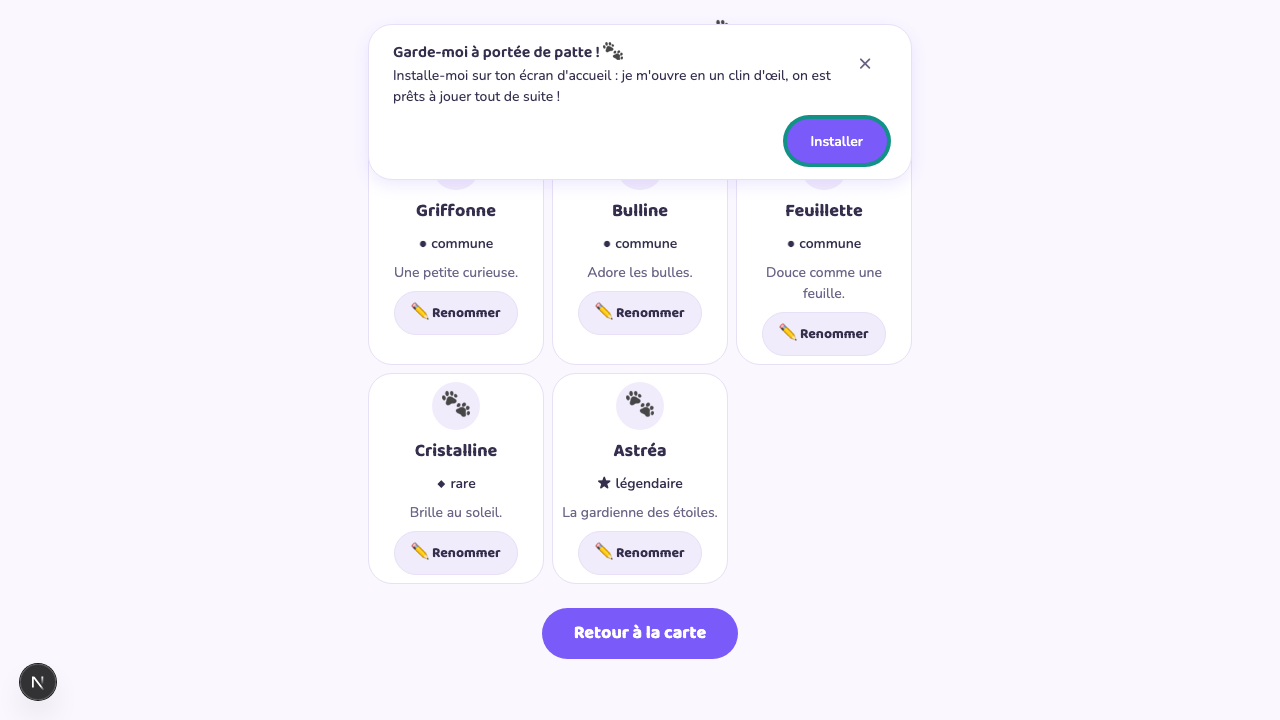
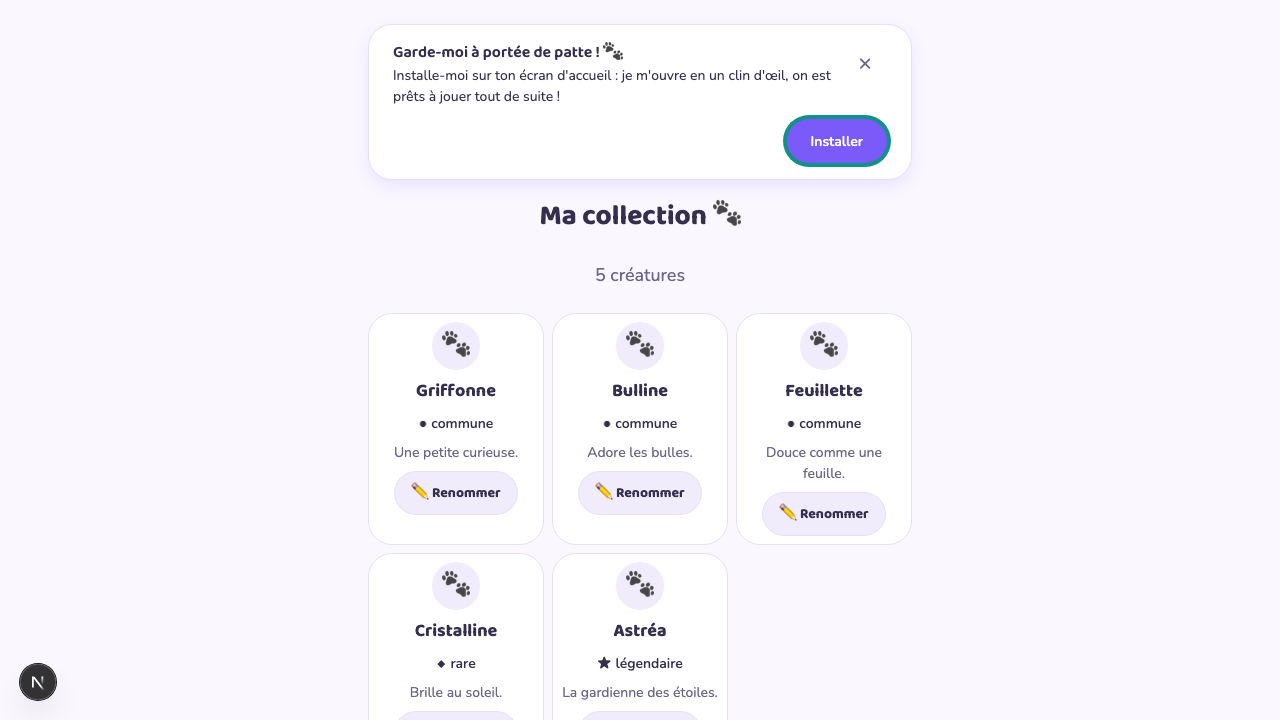
fix(8.5): invite EN FLUX qui réserve l'espace — ne recouvre plus le <h1> hôte (#258)
Re-review PO round 2 : le gating a corrigé l'occlusion sur l'onboarding mais
l'invite `position:fixed; top` (zIndex 9999) recouvrait le PROPRE <h1> des
surfaces autorisées (« Ma collection 🐾 » réduit à un fragment d'emoji, titre
carte idem) — occlusion relocalisée, pas résolue (piège #170/#190 : seuls les
frères FIXES avaient été vérifiés, jamais le contenu EN FLUX).

Fix (option a PO) : l'invite est montée PREMIER enfant de <body>, EN FLUX
(aucune position). Sa hauteur POUSSE le contenu de page vers le bas → réserve un
espace réel ⇒ non-occlusion du <h1> hôte PAR CONSTRUCTION (il vit sous le
bandeau). Scrolle avec la page (pas sticky) → ne recouvre RIEN, à aucune
position. Pas de coexistence à gérer avec OfflineBanner/ActionBar (fixed en BAS).

Garde E2E `expectInviteAndHostTitleCoexist` (elementFromPoint sur le <h1> hôte +
inviteBottom<=titleTop) sur /collection ET /carte, desktop ET 375px. Mutation-
prouvée : repasser en `position:fixed` → titleNotOccluded=false, 2 tests rouges.

Captures /collection + /carte (desktop + 375px) régénérées, ouvertes et
regardées : titre hôte ET invite tous deux entièrement visibles, non-recouverts.

diff --git a/e2e/pwa.spec.ts b/e2e/pwa.spec.ts
@@ -112,6 +112,56 @@ async function readInstallPromptGeometry(page: Page) {
   }, strings.pwa.install.regionLabel);
 }
 
+/**
+ * Non-occlusion du **titre `<h1>` de la surface HÔTE** par l'invite (defect PO round 2,
+ * #170/#190). L'invite est en flux normal AVANT `<main>` → elle doit RÉSERVER l'espace et
+ * pousser le `<h1>` sous elle, jamais le recouvrir. On lit le PREMIER `<h1>` de `<main>`
+ * (texte quelconque : « Ma collection 🐾 », titre thématisé carte…) et on vérifie :
+ *  - le `<h1>` est visible (rect non vide) ET `elementFromPoint` en son centre le retourne
+ *    (ou un descendant) → aucun frère opaque par-dessus ;
+ *  - le bas de l'invite est AU-DESSUS (≤) du haut du `<h1>` → aucun chevauchement vertical.
+ * ROUGIT si l'invite repasse en overlay (`position:fixed`) et recouvre le titre.
+ */
+async function readHostTitleOcclusion(page: Page, regionLabel: string) {
+  return page.evaluate((label) => {
+    const region = [...document.querySelectorAll('[role="region"]')].find(
+      (el) => el.getAttribute("aria-label") === label,
+    );
+    const h1 = document.querySelector("main h1");
+    if (!region || !h1) return null;
+    const inviteRect = region.getBoundingClientRect();
+    const titleRect = h1.getBoundingClientRect();
+    const cx = (titleRect.left + titleRect.right) / 2;
+    const cy = (titleRect.top + titleRect.bottom) / 2;
+    const hit = document.elementFromPoint(cx, cy);
+    return {
+      titleText: (h1.textContent ?? "").trim(),
+      titleVisible: titleRect.width > 0 && titleRect.height > 0,
+      titleNotOccluded: hit !== null && h1.contains(hit),
+      inviteBottom: inviteRect.bottom,
+      titleTop: titleRect.top,
+    };
+  }, regionLabel);
+}
+
+/**
+ * Garde combinée : l'invite ET le `<h1>` hôte sont tous deux visibles/atteignables et ne se
+ * chevauchent pas. Utilisée sur CHAQUE surface autorisée (defect PO round 2).
+ */
+async function expectInviteAndHostTitleCoexist(page: Page) {
+  const invite = await readInstallPromptGeometry(page);
+  expect(invite).not.toBeNull();
+  expect(invite!.right).toBeLessThanOrEqual(invite!.innerWidth);
+  expect(invite!.notOccluded).toBe(true);
+
+  const host = await readHostTitleOcclusion(page, strings.pwa.install.regionLabel);
+  expect(host).not.toBeNull();
+  expect(host!.titleVisible).toBe(true);
+  expect(host!.titleNotOccluded).toBe(true);
+  // Invite ENTIÈREMENT au-dessus du titre → réservation d'espace, jamais overlay (#170/#190).
+  expect(host!.inviteBottom).toBeLessThanOrEqual(host!.titleTop);
+}
+
 test.describe("Invite d'installation PWA (story 8.5, #258)", () => {
   test("beforeinstallprompt → invite affichée, non-occluse (#170), rejetable et persistante (AC1)", async ({
     page,
@@ -135,16 +185,15 @@ test.describe("Invite d'installation PWA (story 8.5, #258)", () => {
       exact: true,
     });
     await expect(installBtn).toBeVisible();
+    // Le titre HÔTE reste visible (l'invite réserve l'espace, ne le recouvre pas).
+    await expect(
+      page.getByRole("heading", { level: 1, name: strings.collection.title }),
+    ).toBeVisible();
 
-    // Garde E2E de géométrie RENDUE (#170) : non-occlusion RÉELLE, pas un raisonnement.
-    const geometry = await readInstallPromptGeometry(page);
-    expect(geometry).not.toBeNull();
-    expect(geometry!.top).toBeGreaterThanOrEqual(0);
-    expect(geometry!.left).toBeGreaterThanOrEqual(0);
-    expect(geometry!.right).toBeLessThanOrEqual(geometry!.innerWidth);
-    expect(geometry!.notOccluded).toBe(true);
+    // Garde E2E #170/#190 : l'invite ET le `<h1>` hôte coexistent, non-occlus, sans chevauchement.
+    await expectInviteAndHostTitleCoexist(page);
 
-    // Opérabilité clavier RÉELLE (AC5) : Tab jusqu'au bouton puis activation — pas seulement `.click()`.
+    // Opérabilité clavier RÉELLE (AC5) : focus le bouton puis activation — pas seulement `.click()`.
     await installBtn.focus();
     await expect(installBtn).toBeFocused();
 
@@ -185,13 +234,13 @@ test.describe("Invite d'installation PWA (story 8.5, #258)", () => {
       page.getByRole("button", { name: strings.pwa.install.installButton, exact: true }),
     ).toBeVisible();
 
-    // À 375px, la carte (maxWidth `min(--max-width-play, calc(100vw - --space-8))`) doit rester
-    // DANS le cadre (pas de débordement horizontal) ET non-occluse.
-    const geometry = await readInstallPromptGeometry(page);
-    expect(geometry).not.toBeNull();
-    expect(geometry!.left).toBeGreaterThanOrEqual(0);
-    expect(geometry!.right).toBeLessThanOrEqual(geometry!.innerWidth);
-    expect(geometry!.notOccluded).toBe(true);
+    // À 375px, la carte (`maxWidth: min(--max-width-play, 100%)` dans un conteneur padé) doit
+    // rester DANS le cadre, non-occluse, ET le titre HÔTE « Ma collection 🐾 » reste visible
+    // sous elle (l'invite réserve l'espace, ne recouvre pas — defect PO round 2).
+    await expect(
+      page.getByRole("heading", { level: 1, name: strings.collection.title }),
+    ).toBeVisible();
+    await expectInviteAndHostTitleCoexist(page);
 
     // Capture DoD 375px (Chrome/Android) — AC6, contexte téléphone.
     await page.screenshot({ path: "docs/captures/258-install-prompt-mobile.png" });
@@ -217,11 +266,11 @@ test.describe("Invite d'installation PWA (story 8.5, #258)", () => {
         page.getByRole("button", { name: strings.pwa.install.installButton, exact: true }),
       ).not.toBeVisible();
 
-      // Non-occlusion à 375px sur iOS aussi.
-      const geometry = await readInstallPromptGeometry(page);
-      expect(geometry).not.toBeNull();
-      expect(geometry!.right).toBeLessThanOrEqual(geometry!.innerWidth);
-      expect(geometry!.notOccluded).toBe(true);
+      // Non-occlusion à 375px sur iOS aussi — invite ET titre hôte coexistent.
+      await expect(
+        page.getByRole("heading", { level: 1, name: strings.collection.title }),
+      ).toBeVisible();
+      await expectInviteAndHostTitleCoexist(page);
 
       // Capture DoD 375px (iOS Safari) — AC6.
       await page.screenshot({ path: "docs/captures/258-install-prompt-ios.png" });
@@ -281,6 +330,32 @@ test.describe("Invite d'installation PWA (story 8.5, #258)", () => {
     await expect(
       page.getByRole("region", { name: strings.pwa.install.regionLabel }),
     ).not.toBeVisible();
+  });
+
+  test("carte (`/carte`) : invite affichée SANS recouvrir le titre `<h1>` de la carte (defect PO round 2, desktop + 375px)", async ({
+    page,
+    context,
+  }) => {
+    await addCollectionSession(context);
+    await page.goto("/carte");
+    await page.waitForLoadState("networkidle");
+    // La carte charge son titre `<h1>` (thématisé « Monde {n} · {thème} »).
+    const mapTitle = page.getByRole("heading", { level: 1 });
+    await expect(mapTitle).toBeVisible();
+
+    // Desktop : invite affichée, titre hôte non recouvert.
+    await dispatchFakeBeforeInstallPrompt(page);
+    await expect(page.getByRole("region", { name: strings.pwa.install.regionLabel })).toBeVisible();
+    await expect(mapTitle).toBeVisible();
+    await expectInviteAndHostTitleCoexist(page);
+    await page.screenshot({ path: "docs/captures/258-install-prompt-carte.png" });
+
+    // 375px : même garde (le titre de carte a un scrim/casing opaque — non-occlusion réelle).
+    await page.setViewportSize(PHONE_VIEWPORT);
+    await expect(page.getByRole("region", { name: strings.pwa.install.regionLabel })).toBeVisible();
+    await expect(page.getByRole("heading", { level: 1 })).toBeVisible();
+    await expectInviteAndHostTitleCoexist(page);
+    await page.screenshot({ path: "docs/captures/258-install-prompt-carte-mobile.png" });
   });
 });
 

diff --git a/src/components/InstallPrompt.tsx b/src/components/InstallPrompt.tsx
@@ -24,12 +24,20 @@ import { INSTALL_PROMPT_DISMISSED_KEY } from "@/config/pwa";
  * calme atteinte (`usePathname` re-rend au changement de route). Voir
  * `shouldShowInstallPromptOnSurface` (pur, testé branche par branche).
  *
- * **Élément superposé/positionné** (`position:fixed`, AC #170) — voir garde de
- * non-occlusion E2E (`e2e/pwa.spec.ts`, `boundingClientRect`/`elementFromPoint`) +
- * captures Playwright pixel-lookées (affiché/rejeté/iOS, desktop ET 375px). Positionné en
- * HAUT du viewport (`OfflineBanner` occupe déjà le bas ET `ActionBar` passe en
- * `position:fixed` bas sur téléphone pendant le jeu, cf. `ActionBar.tsx`) — zone haute
- * libre, aucun frère fixe connu à cette position (grep effectué avant de coder).
+ * **Bandeau EN FLUX qui RÉSERVE un espace réel, jamais un overlay `position:fixed` (rétro
+ * #170/#190, defect PO round 2).** Un overlay fixé recouvre le CONTENU EN FLUX de la surface
+ * hôte — d'abord le titre onboarding (corrigé par le gating), puis, une fois le gating posé, le
+ * `<h1>` propre des surfaces autorisées (`« Ma collection 🐾 »`, titre carte) réduit à un
+ * fragment d'emoji au-dessus de la carte. Le raisonnement « OfflineBanner en bas → zone haute
+ * libre » n'avait vérifié que les FRÈRES FIXES, jamais le `<h1>` en flux normal (piège #170/#190
+ * exact : mécanisme/token vert, pixel du contenu hôte jamais regardé). **Correctif** : monté en
+ * PREMIER enfant de `<body>` (avant `{children}`), en **flux normal** (aucune `position`) → sa
+ * hauteur POUSSE tout le contenu de page vers le bas ⇒ non-occlusion du `<h1>` hôte **par
+ * construction** (impossible de le recouvrir : il vit sous le bandeau, jamais dessous). Scrolle
+ * avec la page (pas `sticky`) → ne recouvre RIEN à AUCUNE position de scroll. Aucune coexistence
+ * à gérer avec `OfflineBanner`/`ActionBar` (eux `position:fixed` en BAS ; le bandeau est en flux
+ * en HAUT). Garde E2E de non-occlusion du `<h1>` HÔTE (`elementFromPoint`, `/collection` ET
+ * `/carte`) + captures pixel-lookées desktop ET 375px.
  *
  * Registre : voix de Teddy, tutoiement (invite montée dans l'aire ENFANT via le layout
  * global — cf. COPY §1/§5, la zone parent a son propre registre neutre ailleurs).
@@ -148,12 +156,20 @@ const HIDDEN_STATE: PromptState = { kind: "hidden" };
 // Glyphe décoratif (aria-hidden) — react/jsx-no-literals : aucun littéral rendu en JSX.
 const DISMISS_GLYPH = "×"; // ×
 
-const bannerStyle: CSSProperties = {
-  position: "fixed",
-  top: "var(--space-5)",
-  left: "50%",
-  transform: "translateX(-50%)",
-  zIndex: 9999,
+/**
+ * Enveloppe EN FLUX (aucune `position`) : premier bloc de `<body>`, sa hauteur POUSSE
+ * `{children}` vers le bas → réserve un espace réel, jamais un overlay (rétro #170/#190, PO
+ * round 2). Centre la carte horizontalement ; padding tokenisé (jamais de valeur en dur).
+ */
+const bannerContainerStyle: CSSProperties = {
+  display: "flex",
+  justifyContent: "center",
+  width: "100%",
+  boxSizing: "border-box",
+  padding: "var(--space-5) var(--space-4) 0",
+};
+
+const cardStyle: CSSProperties = {
   display: "flex",
   flexDirection: "column",
   gap: "var(--space-3)",
@@ -162,7 +178,9 @@ const bannerStyle: CSSProperties = {
   borderRadius: "var(--border-radius-lg)",
   boxShadow: "var(--shadow-md)",
   padding: "var(--space-4) var(--space-5)",
-  maxWidth: "min(var(--max-width-play), calc(100vw - var(--space-8)))",
+  // Bornée par la largeur du conteneur padé (100%) → jamais de débordement à 375px, tout en
+  // restant lisible sur desktop (--max-width-play).
+  maxWidth: "min(var(--max-width-play), 100%)",
   width: "max-content",
 };
 
@@ -323,38 +341,40 @@ export function InstallPrompt({ householdExists }: InstallPromptProps) {
   if (!shouldShowInstallPromptOnSurface(pathname, householdExists)) return null;
 
   return (
-    <div role="region" aria-label={strings.pwa.install.regionLabel} style={bannerStyle}>
-      <div style={headerRowStyle}>
-        <div>
-          <p style={titleStyle}>{strings.pwa.install.title}</p>
-          <p style={bodyStyle}>
-            {state.kind === "ios" ? strings.pwa.install.iosBody : strings.pwa.install.body}
-          </p>
-        </div>
-        <button
-          type="button"
-          className="mz-focusable"
-          onClick={handleDismiss}
-          aria-label={strings.pwa.install.dismissAriaLabel}
-          style={dismissButtonStyle}
-        >
-          <span aria-hidden="true">{DISMISS_GLYPH}</span>
-        </button>
-      </div>
-      {state.kind === "chrome" && (
-        <div style={actionsRowStyle}>
+    <div style={bannerContainerStyle}>
+      <div role="region" aria-label={strings.pwa.install.regionLabel} style={cardStyle}>
+        <div style={headerRowStyle}>
+          <div>
+            <p style={titleStyle}>{strings.pwa.install.title}</p>
+            <p style={bodyStyle}>
+              {state.kind === "ios" ? strings.pwa.install.iosBody : strings.pwa.install.body}
+            </p>
+          </div>
           <button
             type="button"
             className="mz-focusable"
-            onClick={() => handleInstall(state.event)}
-            disabled={state.installing}
-            aria-disabled={state.installing}
-            style={installButtonStyle(state.installing)}
+            onClick={handleDismiss}
+            aria-label={strings.pwa.install.dismissAriaLabel}
+            style={dismissButtonStyle}
           >
-            {strings.pwa.install.installButton}
+            <span aria-hidden="true">{DISMISS_GLYPH}</span>
           </button>
         </div>
-      )}
+        {state.kind === "chrome" && (
+          <div style={actionsRowStyle}>
+            <button
+              type="button"
+              className="mz-focusable"
+              onClick={() => handleInstall(state.event)}
+              disabled={state.installing}
+              aria-disabled={state.installing}
+              style={installButtonStyle(state.installing)}
+            >
+              {strings.pwa.install.installButton}
+            </button>
+          </div>
+        )}
+      </div>
     </div>
   );
 }

diff --git a/src/app/layout.tsx b/src/app/layout.tsx
@@ -73,13 +73,16 @@ export default function RootLayout({ children }: Readonly<{ children: React.Reac
       suppressHydrationWarning
     >
       <body>
+        {/* PWA : invite d'installation discrète, gatée aux surfaces enfant calmes (8.5 #258).
+            PREMIER enfant de <body> + EN FLUX (aucune position) → sa hauteur POUSSE le contenu
+            de page vers le bas quand elle est visible ⇒ ne recouvre JAMAIS le <h1> hôte
+            (rétro #170/#190, PO round 2). Rend `null` hors surface calme → aucun espace réservé. */}
+        <InstallPrompt householdExists={hasHousehold} />
         {children}
         {/* PWA : bannière douce si coupure réseau (cf. SYNC.md §3, strings.pwa.offline) */}
         <OfflineBanner />
         {/* PWA : enregistrement du service worker custom (cf. public/sw.js) */}
         <ServiceWorkerRegistration />
-        {/* PWA : invite d'installation discrète, gatée aux surfaces enfant calmes (8.5 #258) */}
-        <InstallPrompt householdExists={hasHousehold} />
       </body>
     </html>
   );